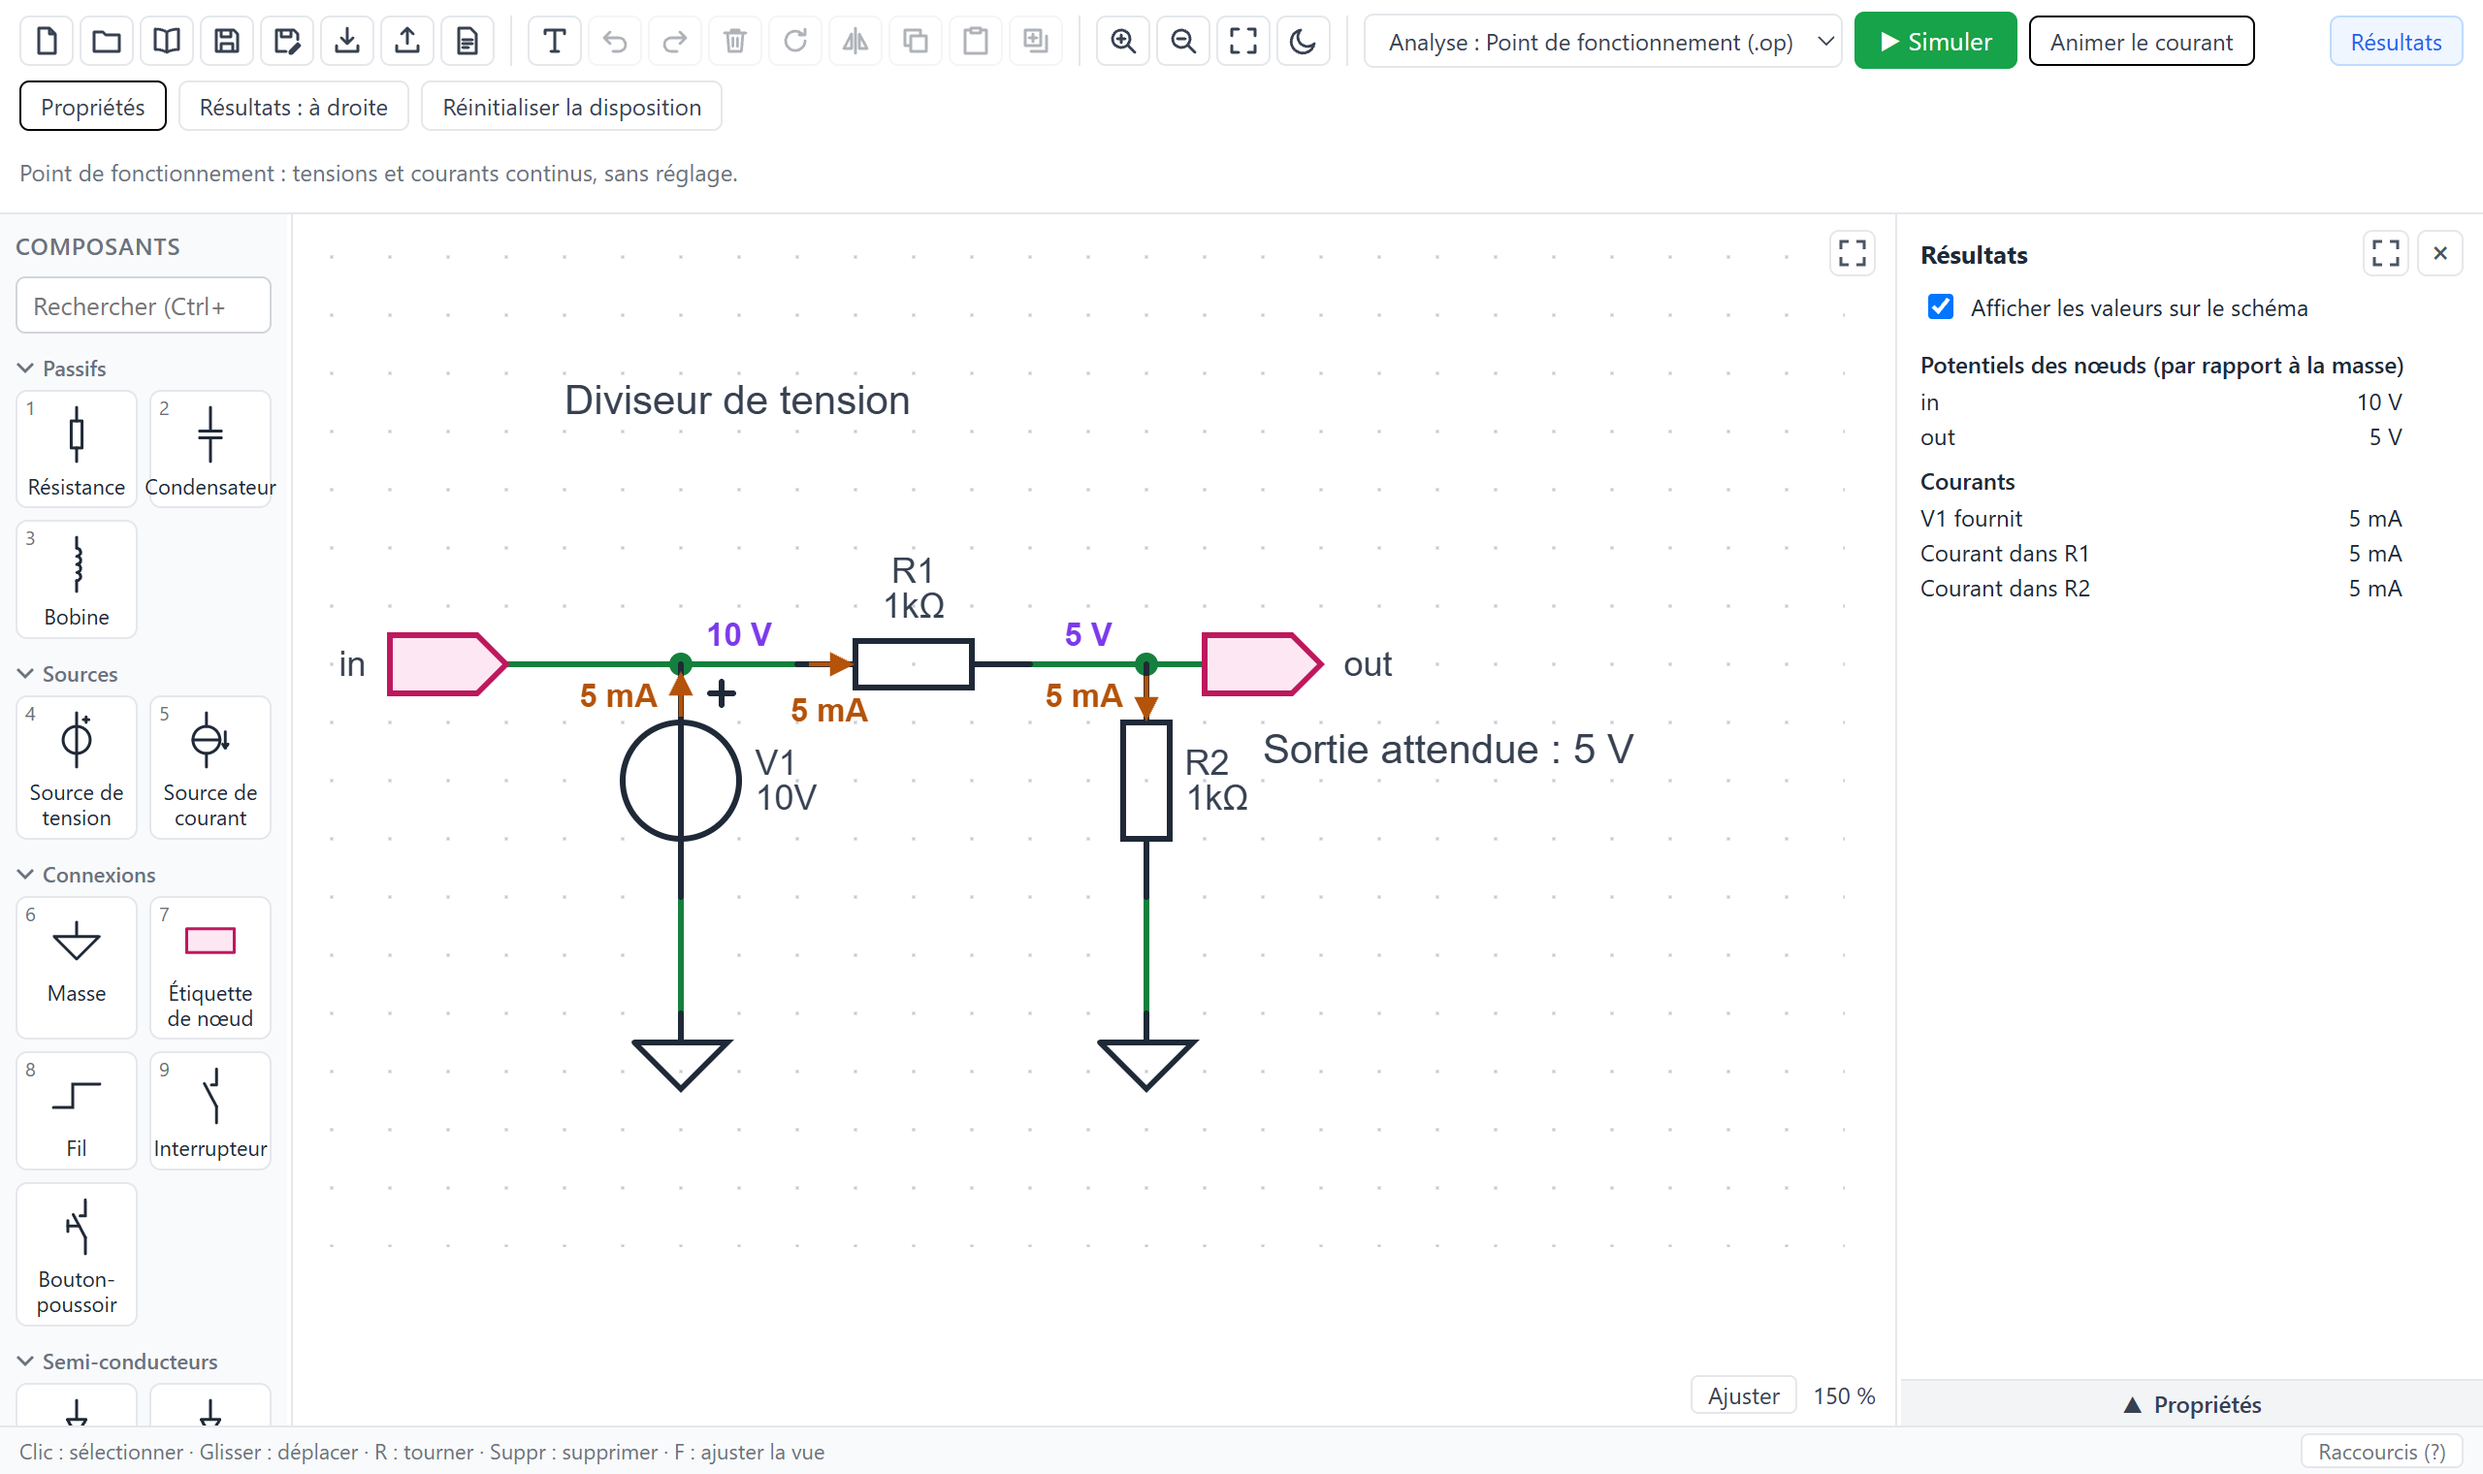
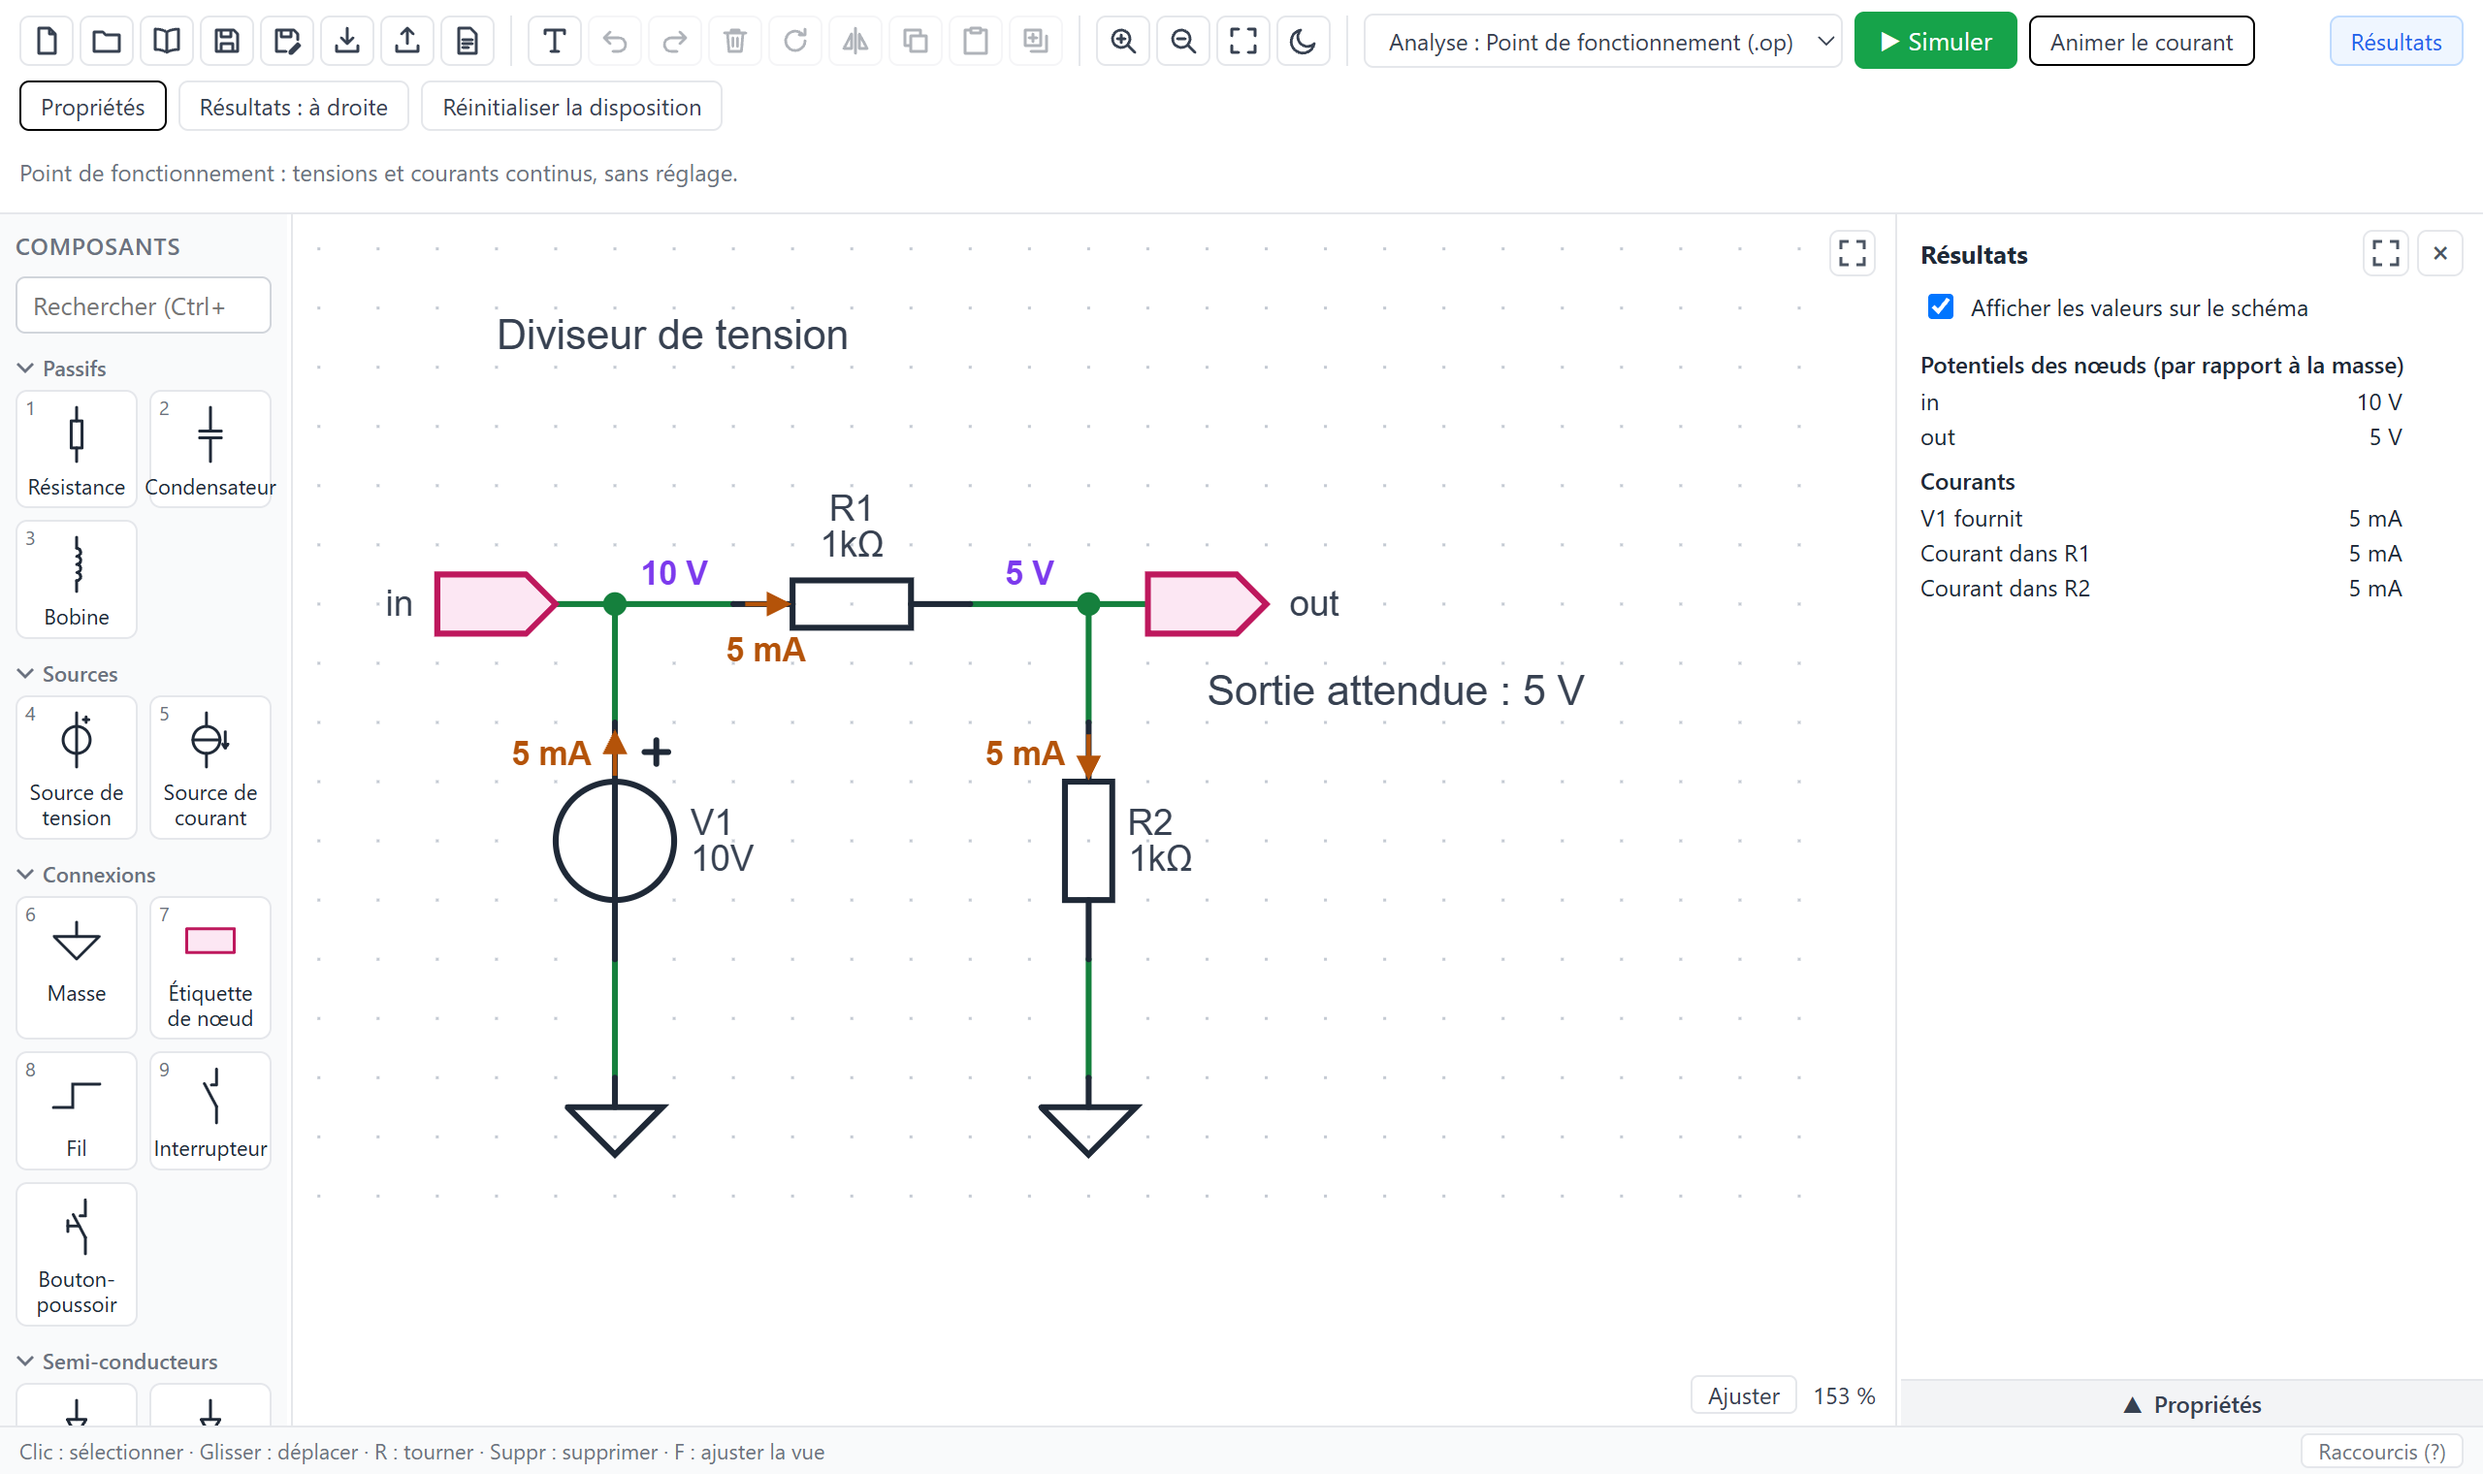
fix(fixtures): lower V1 and R2 so their current arrows stay off the labels
The in label goes back next to V1. V1 and R2 move two steps down, each hung
from a junction of the top wire, so their current arrows sit on their own
vertical wire. The netlist does not change; the nets of netlist.json gain
the two new wires.

diff --git a/frontend/src/store/diagnostics.test.ts b/frontend/src/store/diagnostics.test.ts
@@ -34,14 +34,19 @@ describe("diagnosticMarks", () => {
   it("highlights the wires of a floating node, with a bubble on one of them", () => {
     const [mark, ...rest] = diagnosticMarks(doc, failed([floating("out")]), netlist.nets);
     expect(rest).toEqual([]);
-    expect(mark).toMatchObject({ level: "error", wires: ["w2", "w6"], components: [], pins: [] });
+    expect(mark).toMatchObject({
+      level: "error",
+      wires: ["w2", "w6", "w8"],
+      components: [],
+      pins: [],
+    });
     expect(mark!.message).toMatch(/« out »/);
     // The bubble points just below the middle of the node's first wire.
     const middle = wireMiddle(doc, "w2")!;
     expect(mark!.anchor.x).toBe(middle.x);
     expect(mark!.anchor.y).toBeGreaterThan(middle.y);
     // Every wire of the node is inside the rectangle to show.
-    for (const id of ["w2", "w6"]) {
+    for (const id of ["w2", "w6", "w8"]) {
       for (const p of partPath(
         doc,
         doc.wires.find((w) => w.id === id)!,

diff --git a/frontend/src/store/document.test.ts b/frontend/src/store/document.test.ts
@@ -168,7 +168,7 @@ describe("moving", () => {
   it("keeps wires attached and orthogonal when a component moves", () => {
     const doc = fixtureDoc("divider_op");
     const moved = moveItems(doc, new Set(["c3"]), { x: 3, y: 2 });
-    expect(moved.components.find((c) => c.id === "c3")!.position).toEqual({ x: 11, y: 2 });
+    expect(moved.components.find((c) => c.id === "c3")!.position).toEqual({ x: 11, y: 4 });
     for (const w of moved.wires) {
       const path = wirePath(moved, w);
       expect(orthogonal(path), `wire ${w.id}`).toBe(true);

diff --git a/frontend/src/editor/SimulationControls.test.tsx b/frontend/src/editor/SimulationControls.test.tsx
@@ -115,7 +115,7 @@ describe("SimulationReport (#253)", () => {
 
     await user.click(screen.getByRole("button", { name: /« out » est flottant/ }));
     expect(show).toHaveBeenCalledOnce();
-    expect(editorState().selection).toEqual(["w2", "w6"]);
+    expect(editorState().selection).toEqual(["w2", "w6", "w8"]);
     unregister();
   });
 

diff --git a/docs/exemples-netlist.md b/docs/exemples-netlist.md
@@ -58,31 +58,34 @@ V1 = 10 V, R1 = R2 = 1 kΩ, point de fonctionnement `.op`.
     "version": 2,
     "title": "Diviseur de tension",
     "components": [
-      { "id": "c1", "type": "voltage_source", "name": "V1", "position": { "x": 0, "y": 0 },
+      { "id": "c1", "type": "voltage_source", "name": "V1", "position": { "x": 0, "y": 2 },
         "rotation": 0, "mirror": false, "params": { "waveform": "dc", "dc": "10" } },
       { "id": "c2", "type": "resistor", "name": "R1", "position": { "x": 4, "y": -2 },
         "rotation": 270, "mirror": false, "params": { "resistance": "1k" } },
-      { "id": "c3", "type": "resistor", "name": "R2", "position": { "x": 8, "y": 0 },
+      { "id": "c3", "type": "resistor", "name": "R2", "position": { "x": 8, "y": 2 },
         "rotation": 0, "mirror": false, "params": { "resistance": "1k" } },
-      { "id": "c4", "type": "ground", "position": { "x": 0, "y": 4 },
+      { "id": "c4", "type": "ground", "position": { "x": 0, "y": 6 },
         "rotation": 0, "mirror": false, "params": {} },
-      { "id": "c5", "type": "ground", "position": { "x": 8, "y": 4 },
+      { "id": "c5", "type": "ground", "position": { "x": 8, "y": 6 },
         "rotation": 0, "mirror": false, "params": {} },
-      { "id": "c6", "type": "label", "position": { "x": -3, "y": -2 },
+      { "id": "c6", "type": "label", "position": { "x": -1, "y": -2 },
         "rotation": 180, "mirror": false, "params": { "net": "in", "direction": "input" } },
       { "id": "c7", "type": "label", "position": { "x": 9, "y": -2 },
         "rotation": 0, "mirror": false, "params": { "net": "out", "direction": "output" } }
     ],
-    "junctions": [],
+    "junctions": [
+      { "id": "j1", "position": { "x": 0, "y": -2 } },
+      { "id": "j2", "position": { "x": 8, "y": -2 } }
+    ],
     "wires": [
-      { "id": "w1", "from": { "comp": "c1", "pin": "+" }, "to": { "comp": "c2", "pin": "1" },
-        "points": [] },
-      { "id": "w2", "from": { "comp": "c2", "pin": "2" }, "to": { "comp": "c3", "pin": "1" },
-        "points": [] },
+      { "id": "w1", "from": { "junction": "j1" }, "to": { "comp": "c2", "pin": "1" }, "points": [] },
+      { "id": "w2", "from": { "comp": "c2", "pin": "2" }, "to": { "junction": "j2" }, "points": [] },
       { "id": "w3", "from": { "comp": "c1", "pin": "-" }, "to": { "comp": "c4", "pin": "1" } },
       { "id": "w4", "from": { "comp": "c3", "pin": "2" }, "to": { "comp": "c5", "pin": "1" } },
-      { "id": "w5", "from": { "comp": "c1", "pin": "+" }, "to": { "comp": "c6", "pin": "1" } },
-      { "id": "w6", "from": { "comp": "c3", "pin": "1" }, "to": { "comp": "c7", "pin": "1" } }
+      { "id": "w5", "from": { "comp": "c6", "pin": "1" }, "to": { "junction": "j1" } },
+      { "id": "w6", "from": { "junction": "j2" }, "to": { "comp": "c7", "pin": "1" } },
+      { "id": "w7", "from": { "junction": "j1" }, "to": { "comp": "c1", "pin": "+" } },
+      { "id": "w8", "from": { "junction": "j2" }, "to": { "comp": "c3", "pin": "1" } }
     ]
   },
   "analysis": { "kind": "op" }
@@ -94,7 +97,7 @@ V1 = 10 V, R1 = R2 = 1 kΩ, point de fonctionnement `.op`.
 ```json
 {
   "netlist": "* Diviseur de tension\nV1 in 0 DC 10\nR1 in out 1k\nR2 out 0 1k\n.op\n.end\n",
-  "nets": { "in": ["w1", "w5"], "out": ["w2", "w6"], "0": ["w3", "w4"] },
+  "nets": { "in": ["w1", "w5", "w7"], "out": ["w2", "w6", "w8"], "0": ["w3", "w4"] },
   "components": { "V1": "c1", "R1": "c2", "R2": "c3" },
   "errors": [],
   "warnings": []
